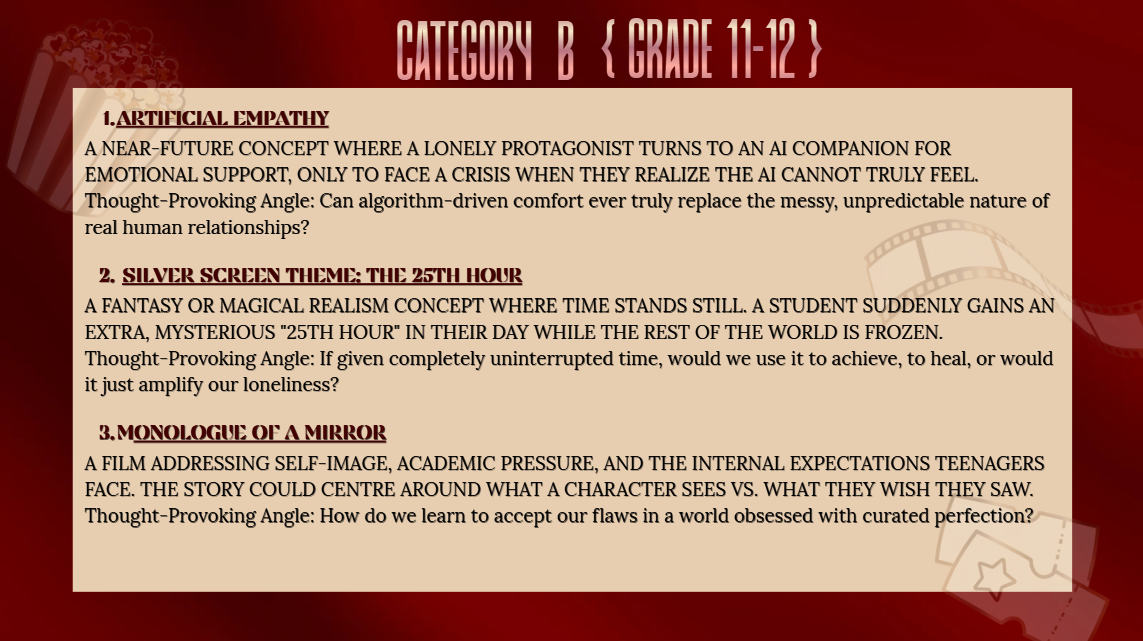
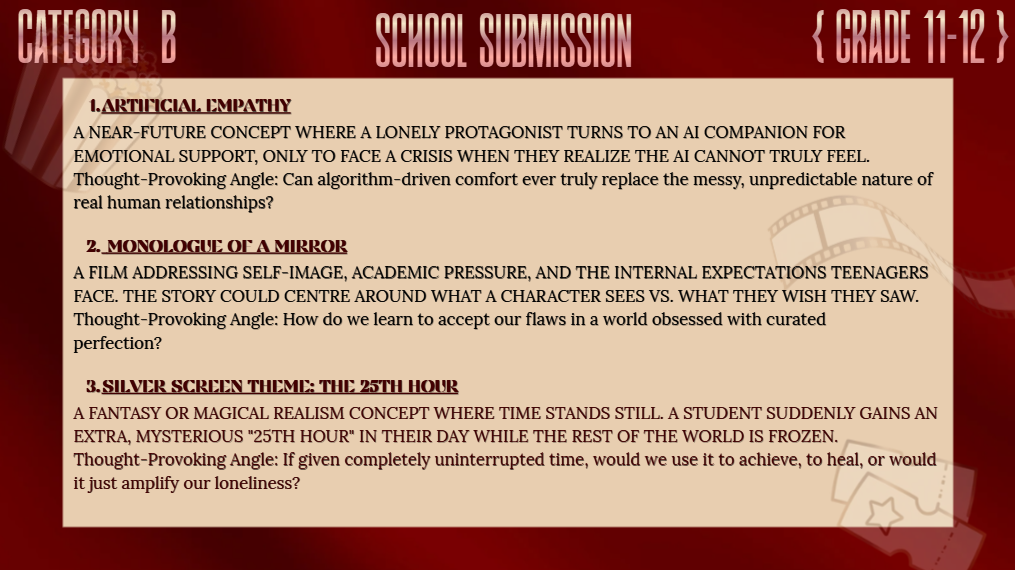
Add files via upload

diff --git a/index.html b/index.html
@@ -144,12 +144,12 @@
                 <p>Delhi Public School, Bangalore South celebrates its Silver Jubilee, marking 25 years of excellence, growth, and legacy in education. Over two and a half decades, it has become a vibrant institution nurturing students through academic rigor, values, and innovation. This milestone reflects the dedication of educators, student achievements, and a strong community. Guided by Service Before Self, the school fosters compassion, integrity, and responsibility. With experiential learning and modern methods, DPS Bangalore South shapes confident, values-driven individuals ready to make a meaningful difference.</p>
             </div>
             <div class="about-card">
-                <h2 class="about-card-title">FILM FEST</h2>
+                <h2 class="about-card-title">DIPS FILM FEST</h2>
                 <p>The DiPS Film Fest is a dynamic platform celebrating creativity, storytelling, and cinematic expression among students. It lets them explore ideas and bring their vision to life. Over the years, it has grown beyond the classroom, with professionals from diverse fields sharing experiences with students. Through student-created films, the festival shows how one idea can be interpreted in countless ways. Each film reflects a unique perspective and style, highlighting creativity and individuality while reinforcing storytelling as an art form shaped in many ways.</p>
             </div>
         </div>
     </section>
-
+    
     <section id="registration">
     <img src="assets/Registration.png" alt="Registration" style="width:100%; display:block;">
 </section>
@@ -159,28 +159,36 @@
          alt="Rules and Regulations opening page"
          style="width:100%; display:block;">
 
-    <img src="assets/Rules 1.png"
+    <img src="assets/Rule 1.png"
          alt="Rules 1"
          style="width:100%; display:block;">
-    <img src="assets/Rules 2.png"
+    <img src="assets/Rule 2.png"
          alt="Rules 2"
          style="width:100%; display:block;">
-    <img src="assets/Rules 3.png"
+    <img src="assets/Rule 3.png"
          alt="Rules 3"
          style="width:100%; display:block;">
 
 </section>
 
     <section id="categories">
+    <img src="assets/Category main.png" alt="Category B" style="width:100%; display:block;">
     <img src="assets/Category A.png" alt="Category A" style="width:100%; display:block;">
     <img src="assets/Category B.png" alt="Category B" style="width:100%; display:block;">
+    <img src="assets/Category C.png" alt="Category B" style="width:100%; display:block;">
+    <img src="assets/Random shit.png" alt="Category B" style="width:100%; display:block;">
+    <img src="assets/CAT AB.png" alt="Category B" style="width:100%; display:block;">
+
 </section>
+
 
 <section id="contact">
-    <img src="assets/contact.png" alt="Contact Us" style="width:100%; display:block;">
+    <img src="assets/Contact.png" alt="Registration" style="width:100%; display:block;">
 </section>
 
-    <script src="script.js"></script>
+
+
+   <script src="script.js"></script>
 
 </body>
 </html>